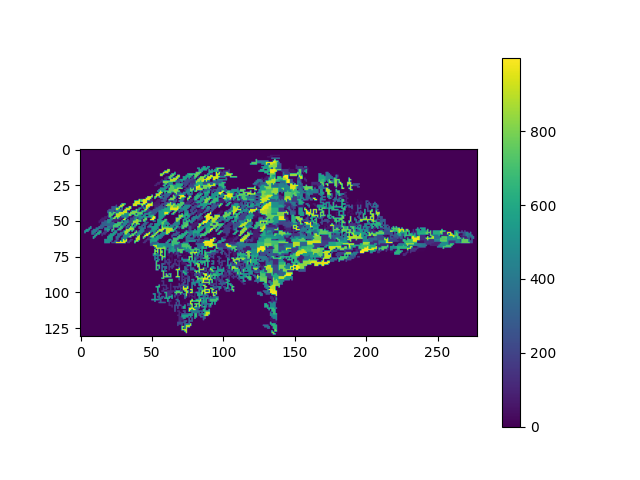
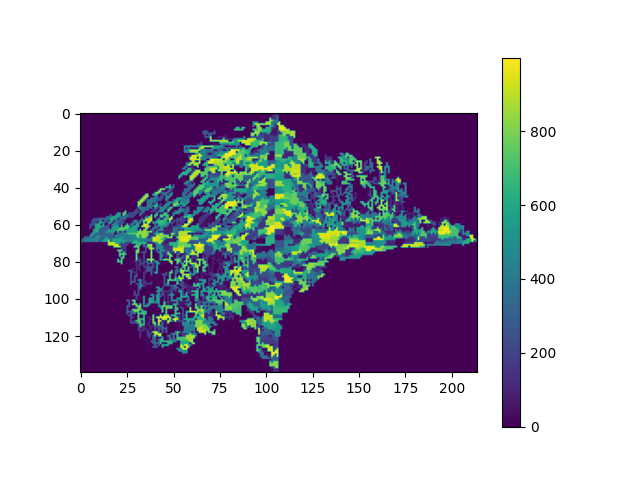
format en solution valide

diff --git a/TP3-H23/solver.py b/TP3-H23/solver.py
@@ -21,7 +21,6 @@ class Solver:
         self.max_size = int(max_size)
 
     def solve(self) -> Solution:
-        start = perf_counter()
         root: TreeNode = get_root_tree(self.problem)
         zoo_shape = (4 * self.problem.n, 4 * self.problem.n)
         self.zoo = -1 * np.ones(shape=zoo_shape, dtype=int)
@@ -29,8 +28,8 @@ class Solver:
         self.zoo = root.fill_children(self.zoo, Direction.NORTH)
         self.zoo = self.shrink_zoo()
         self.zoo = self.fill_zoo_with_encloser()
-        self.zoo = self.squash(0)
-        self.zoo = self.squash(1)
+        self.zoo = self.squash(axis=0)
+        self.zoo = self.squash(axis=1)
         self.zoo = self.shrink_zoo()
 
         middle = np.array([self.zoo.shape[0] // 2, self.zoo.shape[1] // 2])
@@ -42,11 +41,11 @@ class Solver:
         ]:
             index = middle[0] + direction[0], middle[1] + direction[1]
             self.zoo = self.gravity_pull_towards_center(index)
+            self.zoo = self.squash(axis=1)
+            self.zoo = self.squash(axis=0)
 
-        end = perf_counter()
-        print(f"Time: {end - start} s")
+        self.zoo = self.shrink_zoo()
 
-        heatmap2d(self.zoo)
         yield Solution(self.zoo, 0)
 
     def squash(self, axis: int) -> np.array:

diff --git a/TP3-H23/parsing.py b/TP3-H23/parsing.py
@@ -37,7 +37,15 @@ if __name__ == "__main__":
     for i, solution in enumerate(solve(problem)):
         # TODO : afficher le zoo avec l'attrait de chaque enclos
         final_solution = solution
+        enclos: dict = dict()
+        for index in np.ndindex(solution.zoo.shape):
+            if solution.zoo[index] == -1:
+                continue
+            if solution.zoo[index] not in enclos:
+                enclos[solution.zoo[index]] = []
+            enclos[solution.zoo[index]].append(index)
         if args.p:
-            print(
-                f"{i} : solution {solution.zoo} with attraction {solution.attraction}"
-            )
+            for i in range(problem.n):
+                print(" ".join([f"{str(x)} {str(y)}" for x, y in enclos[i]]))
+        else:
+            print(f"{solution.attraction}")
